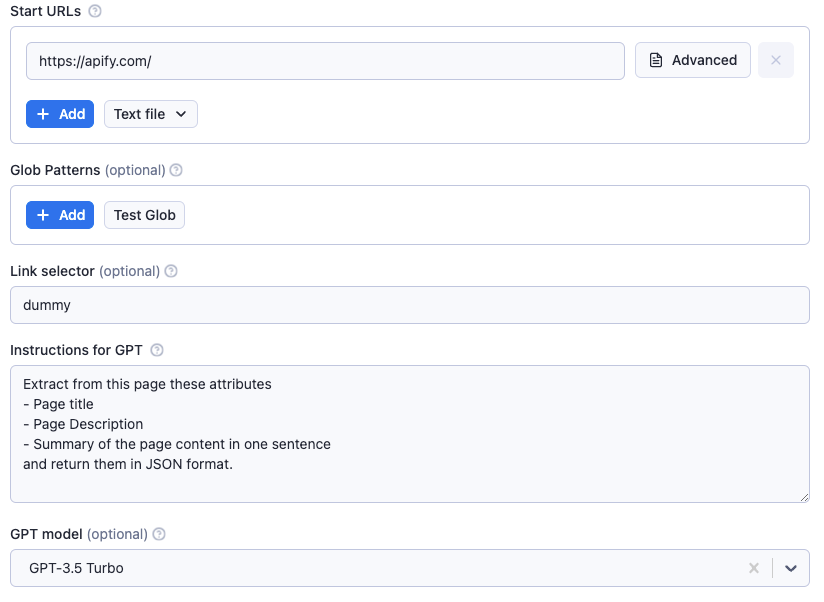
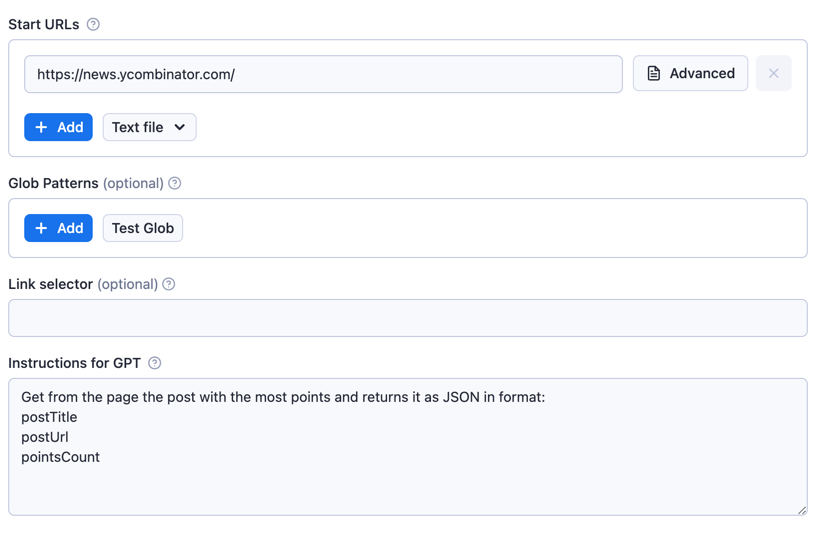
fix: tune example in readme

diff --git a/README.md b/README.md
@@ -16,7 +16,7 @@ TBD
 
 To get started with GPT Scraper, you need to set up the pages you want to scrape using [**Start URLs**](#start-urls)
 and then set up instructions on how the GTP scraper should handle each page. The simplest scraper, which can load the page with
-URL https://apify.com instruct GPT to extract information from it will look:
+URL https://news.ycombinator.com/ instruct GPT to extract information from it will look:
 
 ![img.png](img/example_input.png)
 
